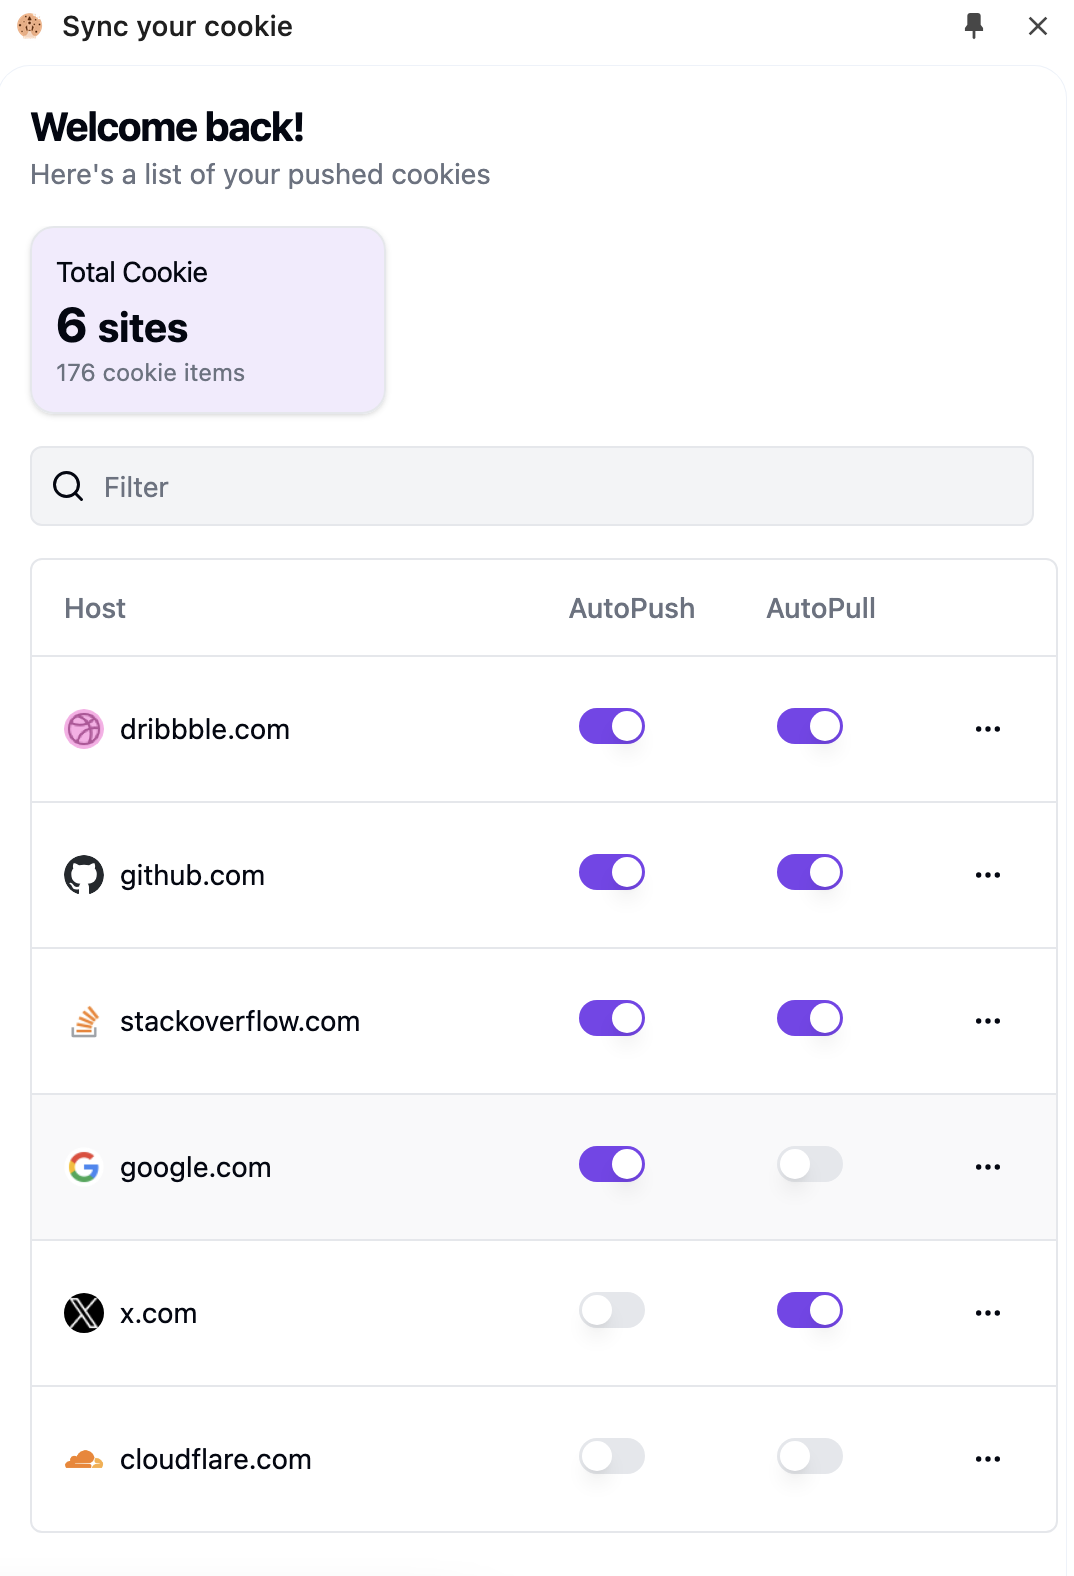
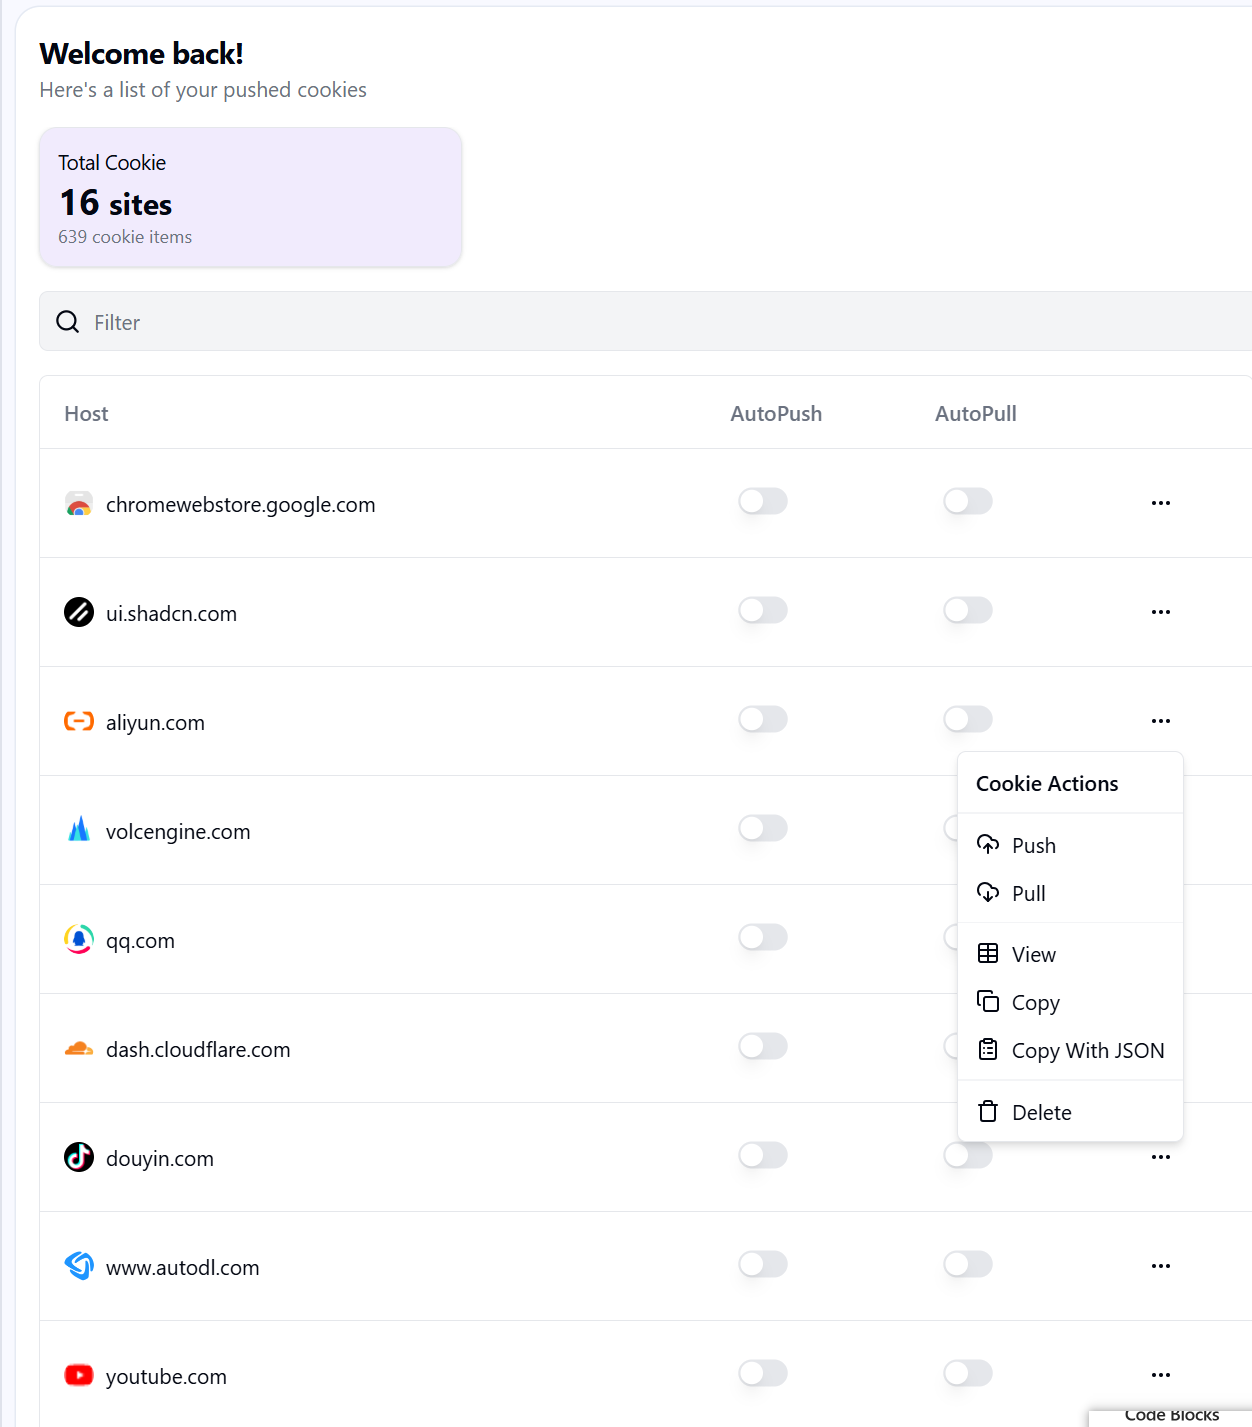
update docs

diff --git a/README_ZH.md b/README_ZH.md
@@ -30,6 +30,12 @@ Cookie 管理侧边栏面板
 
 <img width="600" src="./screenshots/panel.png" alt="cookie manager sidebar panel"/>
 
+Cookie 详情
+
+<img width="600" src="./screenshots/panel_item.png" alt="cookie manager sidebar panel"/>
+
+
+
 ### 使用指引
 
 [How to use](./how-to-use.md)

diff --git a/README.md b/README.md
@@ -40,6 +40,11 @@ Cookie Manager Sidebar Panel
 
 <img width="600" src="./screenshots/panel.png" alt="cookie manager sidebar panel"/>
 
+Cookie Detail
+
+<img width="600" src="./screenshots/panel_item.png" alt="cookie manager sidebar panel"/>
+
+
 
 ### Usage
 
